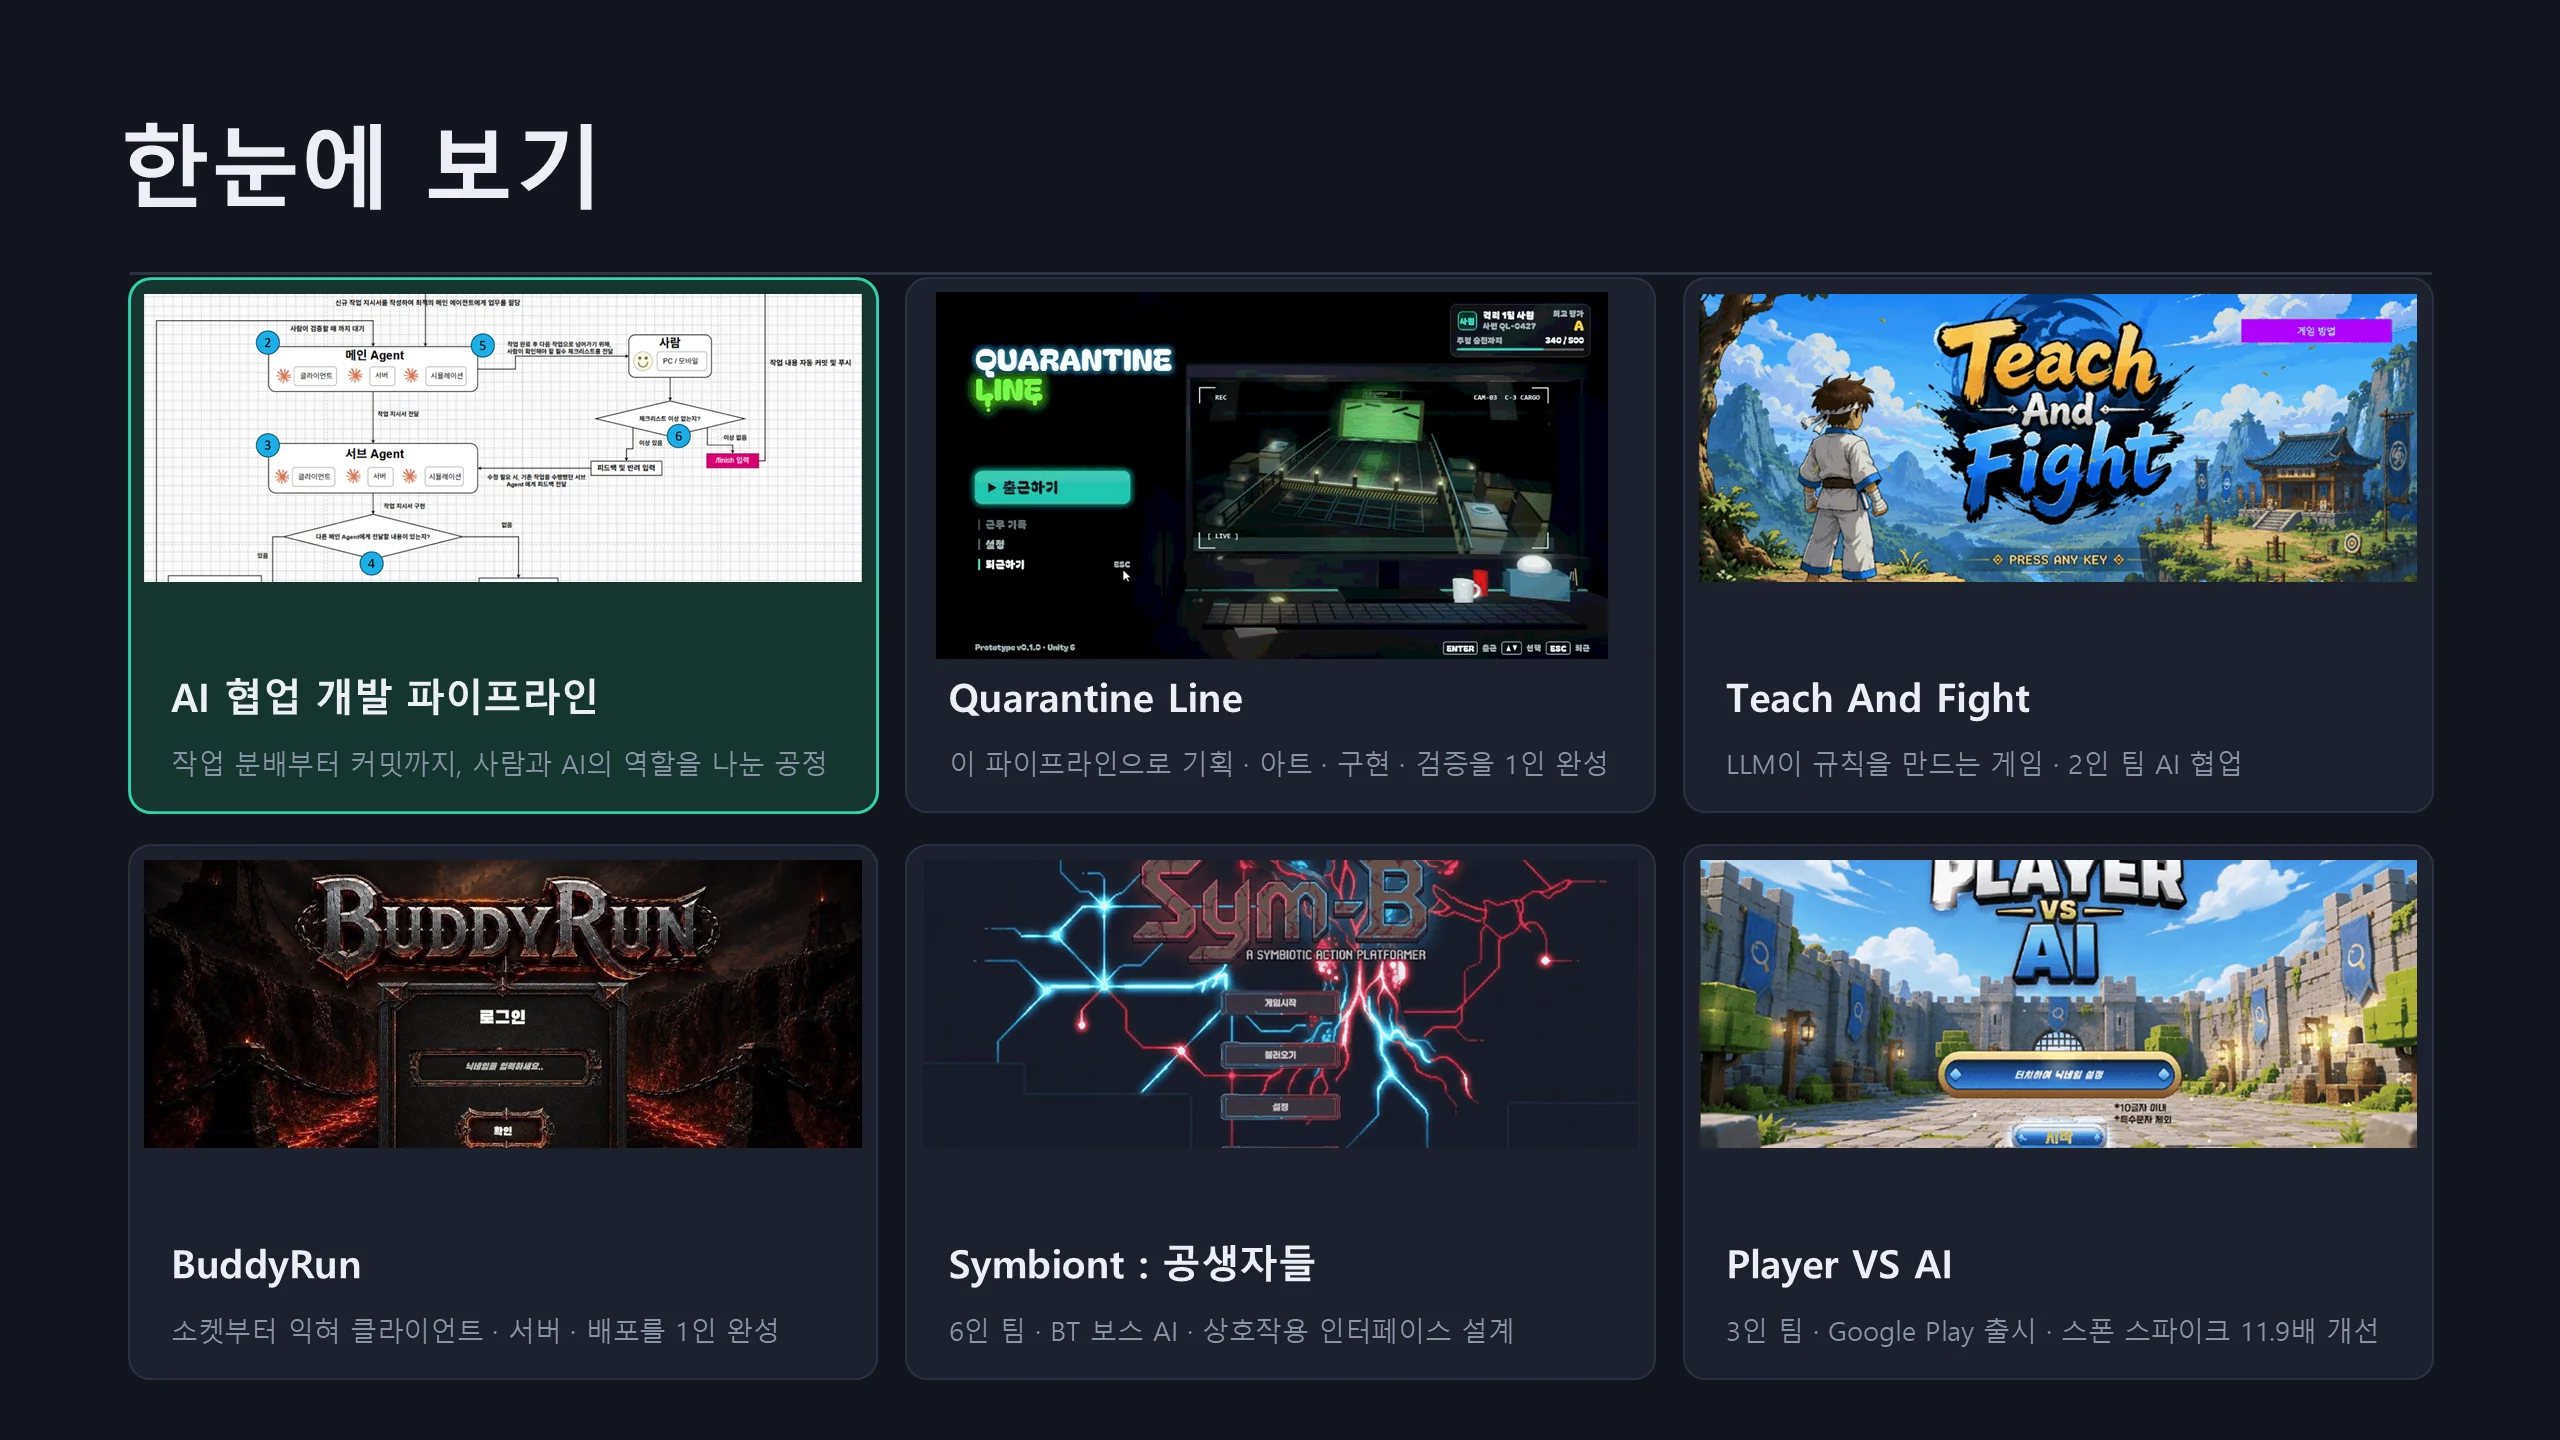
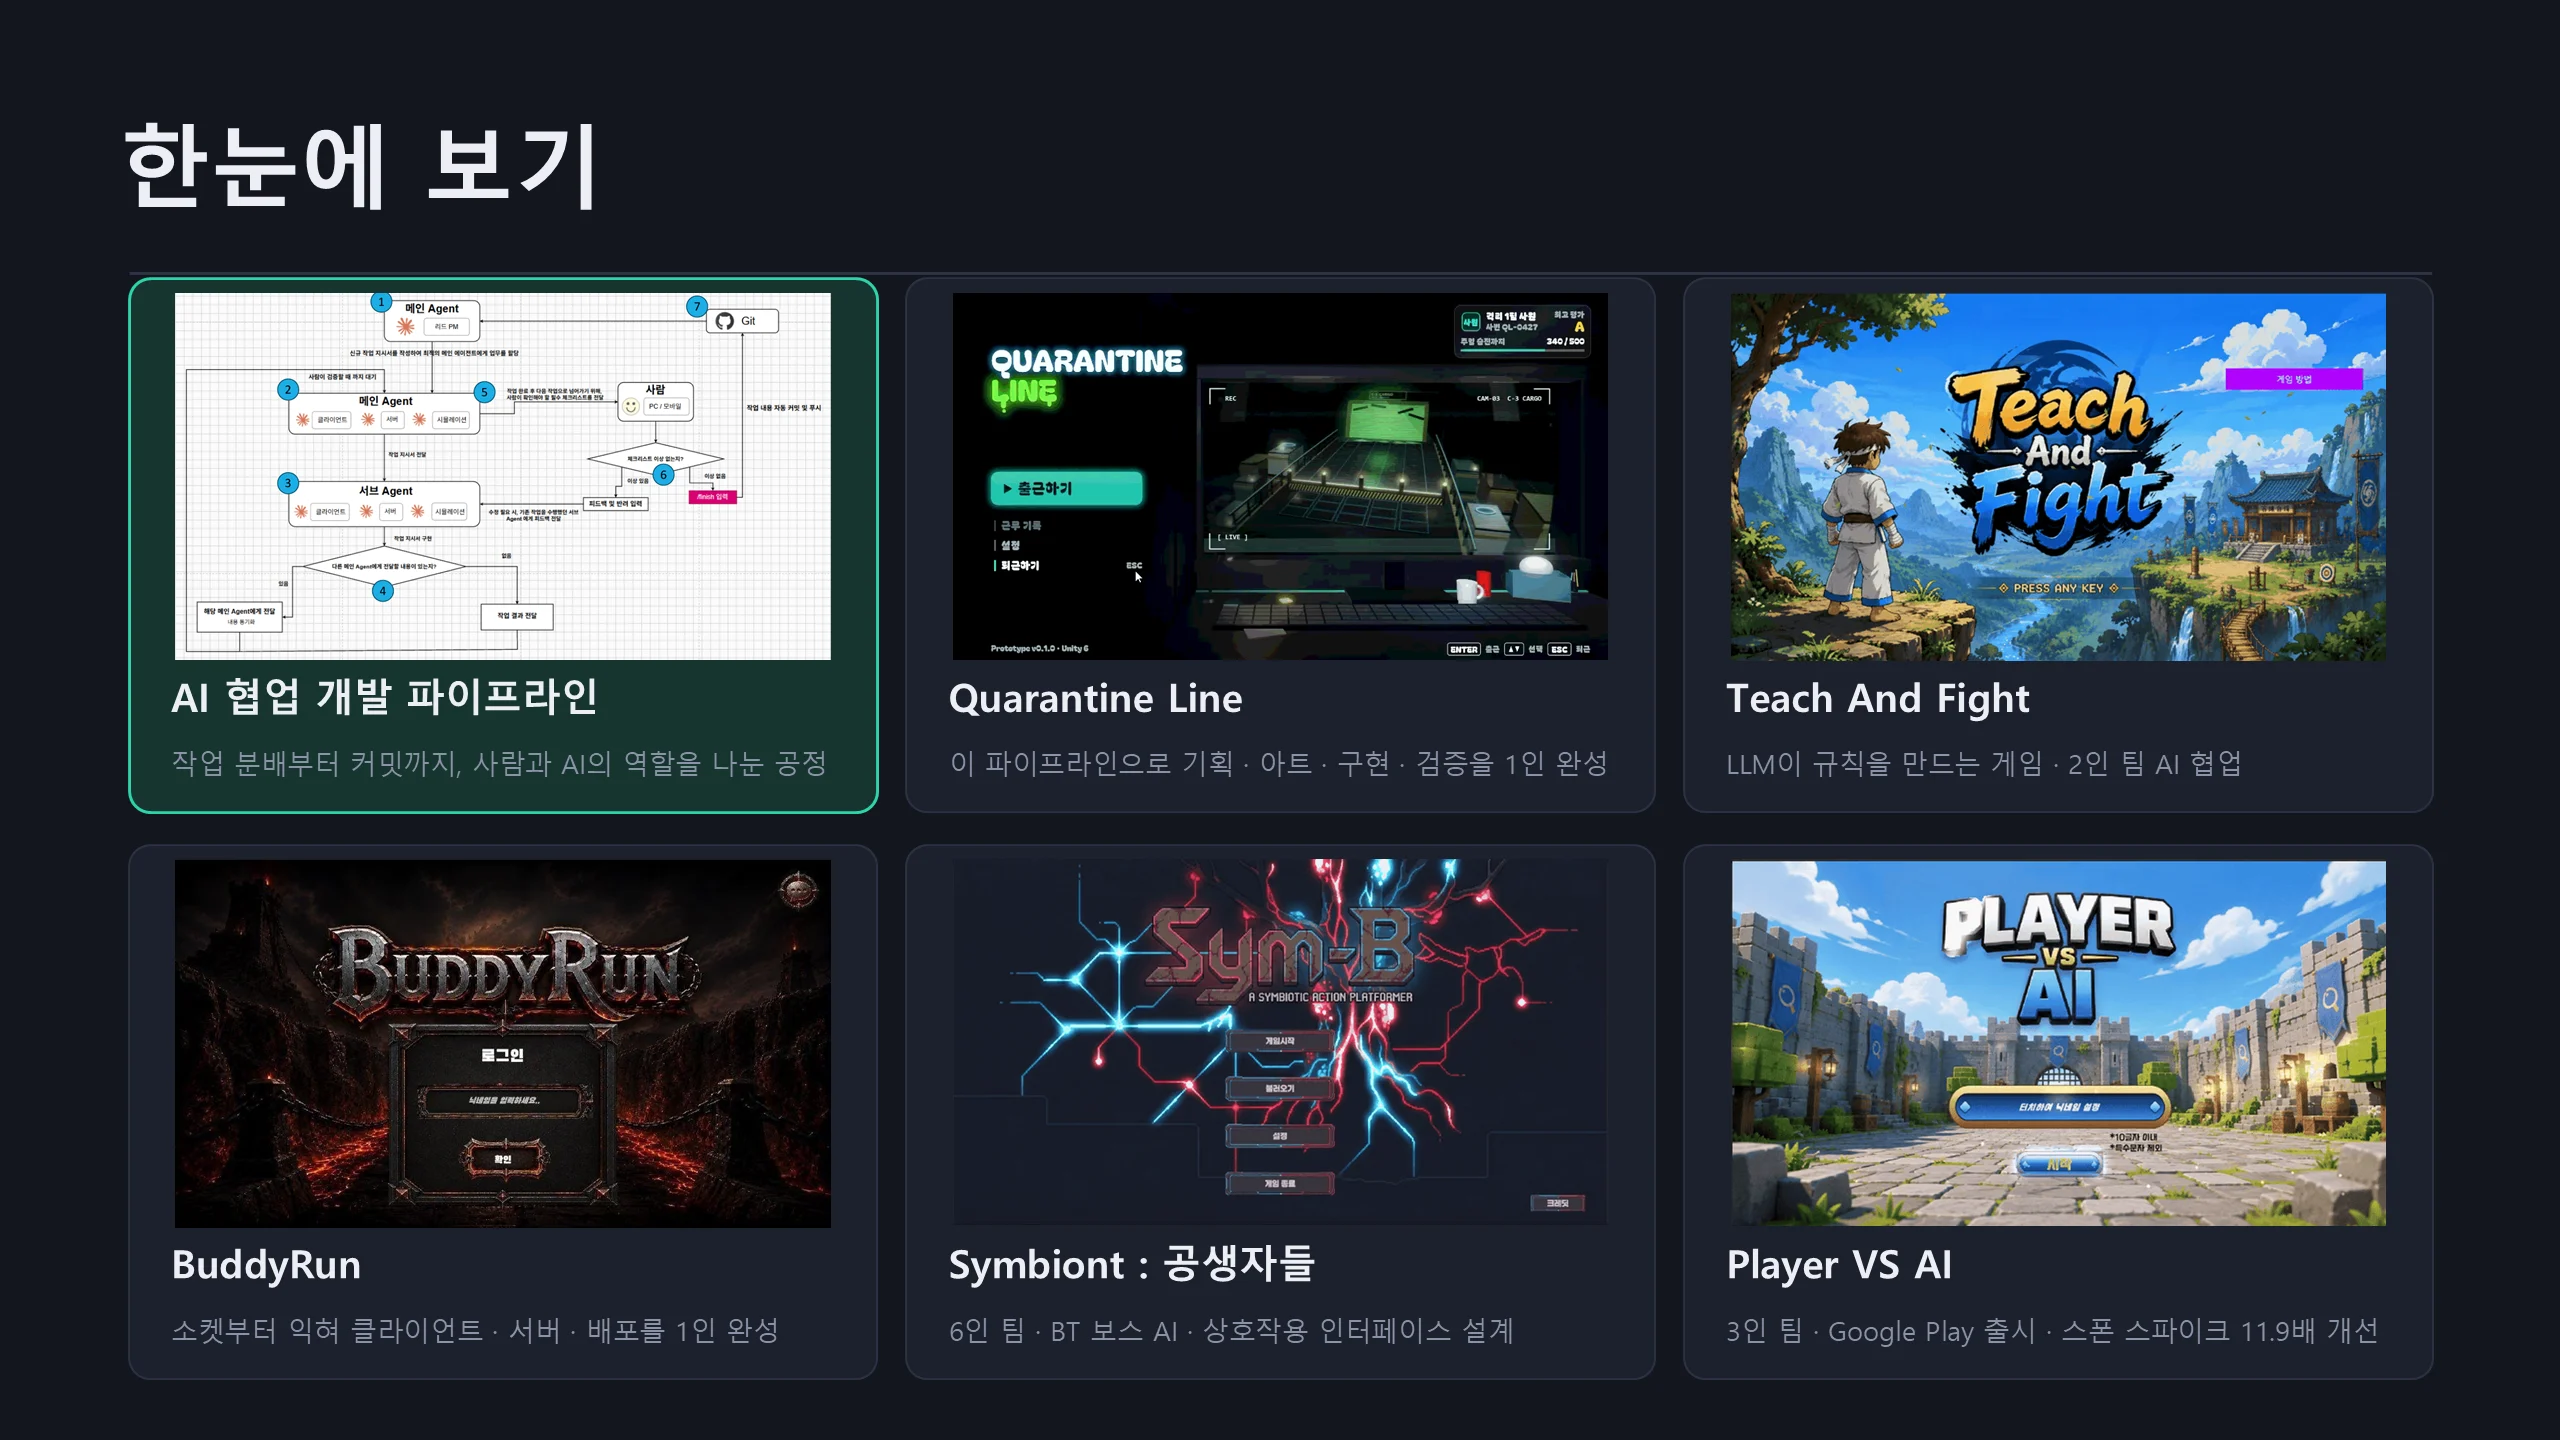
Show full project images on overview cards (no crop)

diff --git a/index.html b/index.html
@@ -34,31 +34,31 @@ nav span{color:var(--mut);min-width:54px;text-align:center;font-variant-numeric:
 </section>
 <section class="slide" id="s2" data-n="2">
   <img src="img/s02.webp" alt="" width="2560" height="1440" loading="lazy">
-  <div class="g" style="left:66.375%;top:20.400%;width:28.050%;height:20.000%" aria-hidden="true"><video style="left:-0.000%;top:-19.952%;width:100.000%;height:139.903%" src="media/g1.mp4" muted loop playsinline preload="none"></video></div>
-  <div class="g" style="left:36.000%;top:59.733%;width:28.050%;height:20.000%" aria-hidden="true"><video style="left:-0.000%;top:-19.605%;width:100.000%;height:139.210%" src="media/g2.mp4" muted loop playsinline preload="none"></video></div>
-  <div class="g" style="left:66.375%;top:59.733%;width:28.050%;height:20.000%" aria-hidden="true"><video style="left:-0.000%;top:-19.778%;width:100.000%;height:139.556%" src="media/g3.mp4" muted loop playsinline preload="none"></video></div>
-  <div class="g" style="left:36.576%;top:20.267%;width:26.250%;height:25.467%" aria-hidden="true"><video style="left:-0.000%;top:-0.000%;width:100.000%;height:100.000%" src="media/g4.mp4" muted loop playsinline preload="none"></video></div>
+  <div class="g" style="left:67.600%;top:20.333%;width:25.600%;height:25.537%" aria-hidden="true"><video style="left:-0.000%;top:-0.000%;width:100.000%;height:100.000%" src="media/g1.mp4" muted loop playsinline preload="none"></video></div>
+  <div class="g" style="left:37.225%;top:59.667%;width:25.600%;height:25.410%" aria-hidden="true"><video style="left:-0.000%;top:-0.000%;width:100.000%;height:100.000%" src="media/g2.mp4" muted loop playsinline preload="none"></video></div>
+  <div class="g" style="left:67.600%;top:59.667%;width:25.600%;height:25.474%" aria-hidden="true"><video style="left:-0.000%;top:-0.000%;width:100.000%;height:100.000%" src="media/g3.mp4" muted loop playsinline preload="none"></video></div>
+  <div class="g" style="left:37.225%;top:20.333%;width:25.600%;height:25.475%" aria-hidden="true"><video style="left:-0.000%;top:-0.000%;width:100.000%;height:100.000%" src="media/g4.mp4" muted loop playsinline preload="none"></video></div>
   <a class="hot" style="left:5.025%;top:19.333%;width:29.250%;height:37.067%" href="#s3" aria-label="3번 슬라이드로 이동"></a>
-  <a class="hot" style="left:5.625%;top:20.400%;width:28.050%;height:20.000%" href="#s3" aria-label="3번 슬라이드로 이동"></a>
+  <a class="hot" style="left:6.850%;top:20.333%;width:25.600%;height:25.519%" href="#s3" aria-label="3번 슬라이드로 이동"></a>
   <a class="hot" style="left:6.675%;top:46.000%;width:21.750%;height:4.800%" href="#s3" aria-label="3번 슬라이드로 이동"></a>
   <a class="hot" style="left:6.675%;top:51.067%;width:26.250%;height:4.000%" href="#s3" aria-label="3번 슬라이드로 이동"></a>
   <a class="hot" style="left:35.400%;top:19.333%;width:29.250%;height:37.067%" href="#s9" aria-label="9번 슬라이드로 이동"></a>
   <a class="hot" style="left:37.050%;top:46.000%;width:21.750%;height:4.800%" href="#s9" aria-label="9번 슬라이드로 이동"></a>
   <a class="hot" style="left:37.050%;top:51.067%;width:26.250%;height:4.000%" href="#s9" aria-label="9번 슬라이드로 이동"></a>
   <a class="hot" style="left:65.775%;top:19.333%;width:29.250%;height:37.067%" href="#s14" aria-label="14번 슬라이드로 이동"></a>
-  <a class="hot" style="left:66.375%;top:20.400%;width:28.050%;height:20.000%" href="#s14" aria-label="14번 슬라이드로 이동"></a>
+  <a class="hot" style="left:67.600%;top:20.333%;width:25.600%;height:25.537%" href="#s14" aria-label="14번 슬라이드로 이동"></a>
   <a class="hot" style="left:67.425%;top:46.000%;width:21.750%;height:4.800%" href="#s14" aria-label="14번 슬라이드로 이동"></a>
   <a class="hot" style="left:67.425%;top:51.067%;width:26.250%;height:4.000%" href="#s14" aria-label="14번 슬라이드로 이동"></a>
   <a class="hot" style="left:5.025%;top:58.667%;width:29.250%;height:37.067%" href="#s17" aria-label="17번 슬라이드로 이동"></a>
-  <a class="hot" style="left:5.625%;top:59.733%;width:28.050%;height:20.000%" href="#s17" aria-label="17번 슬라이드로 이동"></a>
+  <a class="hot" style="left:6.850%;top:59.667%;width:25.600%;height:25.626%" href="#s17" aria-label="17번 슬라이드로 이동"></a>
   <a class="hot" style="left:6.675%;top:85.333%;width:21.750%;height:4.800%" href="#s17" aria-label="17번 슬라이드로 이동"></a>
   <a class="hot" style="left:6.675%;top:90.400%;width:26.250%;height:4.000%" href="#s17" aria-label="17번 슬라이드로 이동"></a>
   <a class="hot" style="left:35.400%;top:58.667%;width:29.250%;height:37.067%" href="#s21" aria-label="21번 슬라이드로 이동"></a>
-  <a class="hot" style="left:36.000%;top:59.733%;width:28.050%;height:20.000%" href="#s21" aria-label="21번 슬라이드로 이동"></a>
+  <a class="hot" style="left:37.225%;top:59.667%;width:25.600%;height:25.410%" href="#s21" aria-label="21번 슬라이드로 이동"></a>
   <a class="hot" style="left:37.050%;top:85.333%;width:21.750%;height:4.800%" href="#s21" aria-label="21번 슬라이드로 이동"></a>
   <a class="hot" style="left:37.050%;top:90.400%;width:26.250%;height:4.000%" href="#s21" aria-label="21번 슬라이드로 이동"></a>
   <a class="hot" style="left:65.775%;top:58.667%;width:29.250%;height:37.067%" href="#s25" aria-label="25번 슬라이드로 이동"></a>
-  <a class="hot" style="left:66.375%;top:59.733%;width:28.050%;height:20.000%" href="#s25" aria-label="25번 슬라이드로 이동"></a>
+  <a class="hot" style="left:67.600%;top:59.667%;width:25.600%;height:25.474%" href="#s25" aria-label="25번 슬라이드로 이동"></a>
   <a class="hot" style="left:67.425%;top:85.333%;width:21.750%;height:4.800%" href="#s25" aria-label="25번 슬라이드로 이동"></a>
   <a class="hot" style="left:67.425%;top:90.400%;width:26.250%;height:4.000%" href="#s25" aria-label="25번 슬라이드로 이동"></a>
   <div class="sr">한눈에 보기 AI 협업 개발 파이프라인 작업 분배부터 커밋까지, 사람과 AI의 역할을 나눈 공정 Quarantine Line 이 파이프라인으로 기획 · 아트 · 구현 · 검증을 1인 완성 Teach And Fight LLM이 규칙을 만드는 게임 · 2인 팀 AI 협업 BuddyRun 소켓부터 익혀 클라이언트 · 서버 · 배포를 1인 완성 Symbiont : 공생자들 6인 팀 · BT 보스 AI · 상호작용 인터페이스 설계 Player VS AI 3인 팀 · Google Play 출시 · 스폰 스파이크 11.9배 개선</div>
@@ -169,7 +169,7 @@ nav span{color:var(--mut);min-width:54px;text-align:center;font-variant-numeric:
 </section>
 <section class="slide" id="s23" data-n="23">
   <img src="img/s23.webp" alt="" width="2560" height="1440" loading="lazy">
-  <div class="sr">코드 설계 – 플레이어 · 적 상호작용을 인터페이스로 분리 설계 의도 문제 적마다 무력화 시 주는 기능(버프 / 발판 / 잡기 / 던지기)이 달라, 플레이어에서 분기하면 적이 늘 때마다 수정된다 구조 적은 받을 상호작용을 인터페이스로만 선언하고, 실제 동작은 핸들러가 전담한다 효과 새 상호작용 = 인터페이스 1개 + 핸들러 1개 + 등록 1줄, 기존 코드는 안 건드린다</div>
+  <div class="sr">코드 설계 – 플레이어 · 적 상호작용을 인터페이스로 분리 설계 의도 문제 적마다 무력화 시 주는 기능(버프 / 발판 / 잡기 / 던지기)이 달라, 플레이어에서 분기하면 적이 늘 때마다 수정된다 구조 적은 받을 상호작용을 인터페이스로만 선언하고, 실제 동작은 핸들러가 전담한다 효과 새 상호작용 = 인터페이스 1개 + 핸들러 1개 + 등록 1줄, 기존 코드는 안 건드린다 GIF · 상호작용 3종 플레이 무력화한 적 탑승 비행 → 순간이동 도약 → 잡기 · 던지기 (각 2~3초) 744 × 360 px</div>
 </section>
 <section class="slide" id="s24" data-n="24">
   <img src="img/s24.webp" alt="" width="2560" height="1440" loading="lazy">
